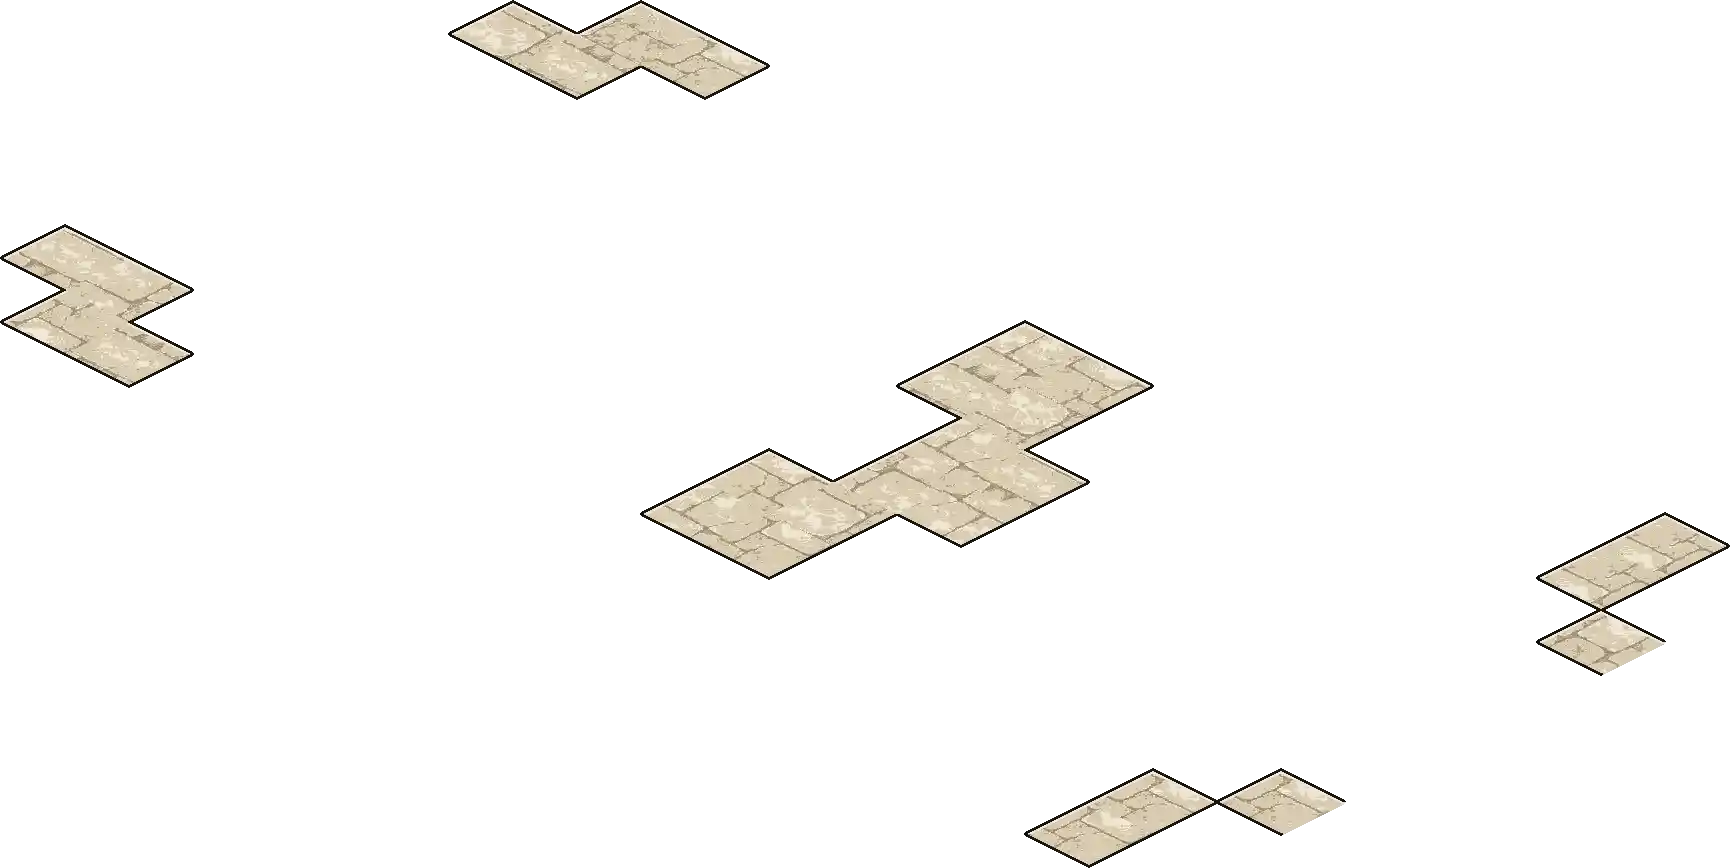
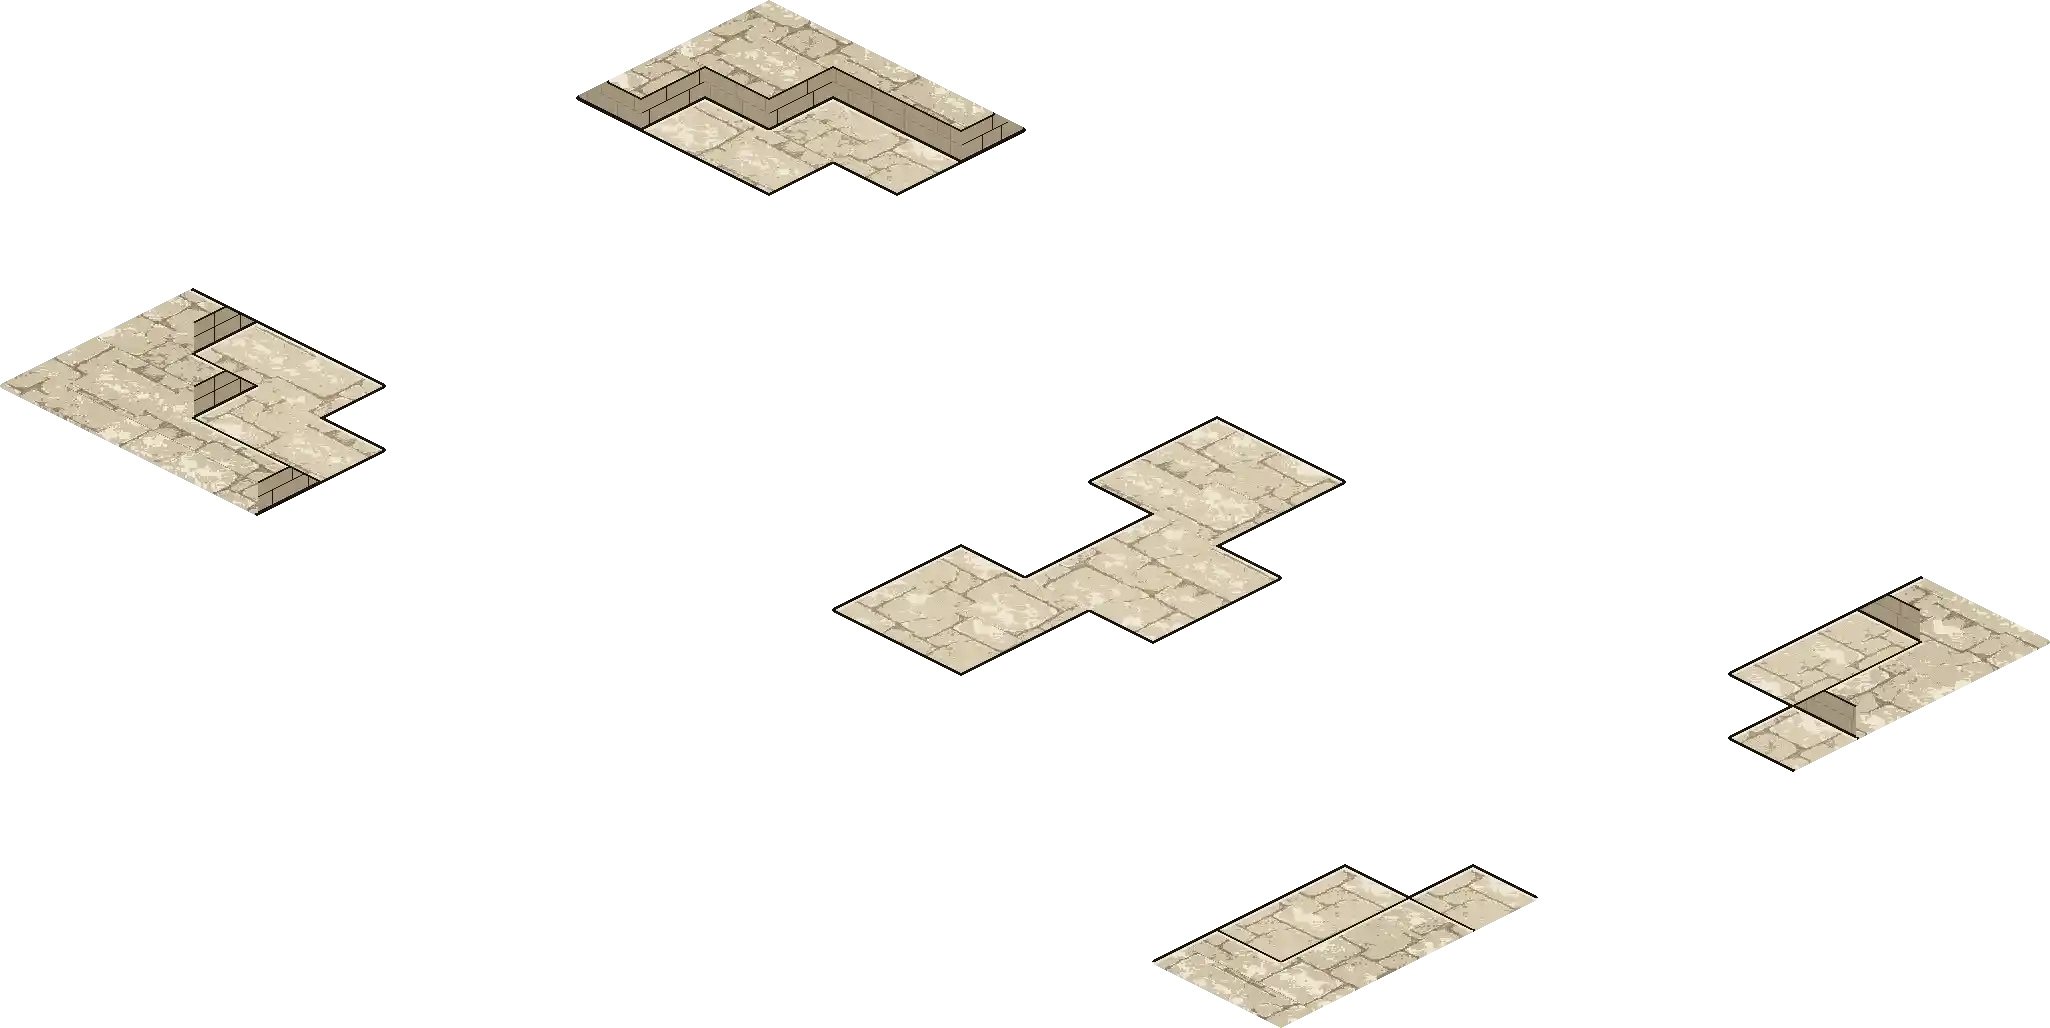
Paint the Quarry Gate's X corners as raised cut rock on the limestone page

diff --git a/scripts/art/quarry-modular-ground.ts b/scripts/art/quarry-modular-ground.ts
@@ -13,7 +13,10 @@
  * Three materials across the four registered regions, which is what the gate's
  * geometry is actually describing:
  *
- * - `limestone` region → the §3 limestone paving of the gatehouse terrace.
+ * - `limestone` region → the §3 limestone paving of the gatehouse terrace,
+ *   and the cut quarry rock (`X`) in the corners: the Cutting's `block` key,
+ *   stood `ROCK_RISE` above the terrace on a two-course block face so it
+ *   reads as the rock it is, never as open floor.
  * - `road` region → §3 packed earth, with the haul tracks running down its two
  *   rows in the cart-rut tone.
  * - `earth-west` / `earth-east` → §3 quarry spoil, the loose ground either side
@@ -28,12 +31,17 @@
  */
 import { mkdirSync, writeFileSync } from 'node:fs';
 import { QUARRY_GATE } from '../../src/content/maps/combat';
-import { newImage, setPixel } from './lib/image';
+import { newImage, parseHex, setPixel } from './lib/image';
 import type { Image } from './lib/image';
 import { tileNoise } from '../../src/render/painters/shapes';
 import { alphaBounds, crop } from './lib/trim';
 import { encodeWebp } from './lib/webp';
-import { heapFits, loadQuarryMaterial, QUARRY_GROUND_QUALITY } from './quarry-village-material';
+import {
+  heapFits,
+  loadQuarryMaterial,
+  QUARRY_GROUND_QUALITY,
+  QUARRY_GROUND_TONES,
+} from './quarry-village-material';
 import type { QuarryMaterial, QuarryTone, Rgb } from './quarry-village-material';
 
 const TILE_DIAGONAL = Math.hypot(64, 32);
@@ -44,11 +52,35 @@ export const QUARRY_GATE_PAGE = { x: -128, y: -192, width: 2304, height: 1280 } 
 export const QUARRY_GATE_REGION_NAMES = ['earth-west', 'earth-east', 'road', 'limestone'] as const;
 export type GateRegionName = (typeof QUARRY_GATE_REGION_NAMES)[number];
 
+/**
+ * How far the cut rock (`X`) stands above the terrace, in world pixels: two
+ * courses of `COURSE`, one per tier of its elevation, so it reads a full step
+ * above the tier-1 `^` shoulders in front of it. The forest's tier-1 shelf
+ * stands `SHELF_RISE` (16); this is the same face at twice the height.
+ */
+export const ROCK_RISE = 32;
+const ROCK_COURSE = ROCK_RISE / 2;
+const ROCK_BLOCK = 32;
+const LIP_INK = 2;
+
+/**
+ * Rock, for the face test. Off the grid counts as rock: the corner masses run
+ * on into the exterior surround, which owns the terrace's outer drop, so a
+ * face stands only where the rock meets the playable board.
+ */
+const isRock = (x: number, y: number): boolean => {
+  const key = QUARRY_GATE.rows[y]?.[x];
+  return key === undefined || key === 'X';
+};
+
 const regionAt = (x: number, y: number): GateRegionName | null => {
   const key = QUARRY_GATE.rows[y]?.[x];
   if (!key) return null;
   if (key === '=') return 'road';
-  if (key === 'o' || key === '^') return 'limestone';
+  // The cut rock rides the limestone page: it is the Cutting's `block` key, so
+  // it belongs with the stone, and keeping it off the spoil pages keeps them
+  // to the terrace they describe.
+  if (key === 'o' || key === '^' || key === 'X') return 'limestone';
   return x < 10 ? 'earth-west' : 'earth-east';
 };
 
@@ -57,6 +89,8 @@ const materialOf = (key: string | undefined): QuarryTone | null => {
   if (!key) return null;
   if (key === '=') return 'earth';
   if (key === 'o' || key === '^') return 'limestone';
+  // Cut quarry rock: the Cutting's `^`/`A` block key, never spoil floor.
+  if (key === 'X') return 'block';
   // Walls and cover stand on the terrace; their footprint is still ground, and
   // leaving it unpainted would change the registered page bounds.
   return 'spoil';
@@ -77,6 +111,54 @@ export const plainSpoil = (x: number, y: number): boolean => {
   const key = QUARRY_GATE.rows[y]?.[x];
   return materialOf(key) === 'spoil' && plain(key);
 };
+
+/** Logical cell coordinates of a world pixel. */
+const logical = (wx: number, wy: number): { x: number; y: number } => ({
+  x: ((wx - 768) / 64 + wy / 32) / 2,
+  y: (wy / 32 - (wx - 768) / 64) / 2,
+});
+const rockAt = (wx: number, wy: number): boolean => {
+  const { x, y } = logical(wx, wy);
+  return isRock(Math.floor(x), Math.floor(y));
+};
+
+/**
+ * One pixel of the cut rock, painted the way `forest-raised-shelf.ts` stands
+ * its shelf: the top is the footprint lifted by `ROCK_RISE`, and wherever the
+ * ground under a pixel's top would already be off the rock, that pixel is the
+ * block face instead, so the face stands straight up from the rock's
+ * down-screen (+x/+y) edges inside the rules' own cells. The face is the
+ * `block` row's shadow, never its pale tones: joint-tone joints on the
+ * left-facing wall, ink joints on the right-facing one, turned further from
+ * the light. It is one step lighter than the shelf's right wall (whose field is
+ * the joint tone) because the rock shares the limestone page, and the page's
+ * darkest window has to stay inside the §3 span of its brightest paving.
+ */
+function rockPixel(material: QuarryMaterial, wx: number, wy: number, rim: boolean): Rgb {
+  let drop = 1;
+  while (drop <= ROCK_RISE && rockAt(wx, wy + drop)) drop++;
+  if (drop > ROCK_RISE) {
+    // The top, sampled where it stands, so its incident rides up with the lift.
+    if (rim) return material.rimOf('block');
+    const top = logical(wx, wy + ROCK_RISE);
+    return material.colour('block', top.x, top.y);
+  }
+  const block = QUARRY_GROUND_TONES.block;
+  const foot = logical(wx, wy + drop - 1);
+  const exit = logical(wx, wy + drop);
+  const right =
+    Math.floor(exit.x) > Math.floor(foot.x) && Math.floor(exit.y) === Math.floor(foot.y);
+  const height = drop - 1;
+  if (drop > ROCK_RISE - LIP_INK || height < LIP_INK) return material.ink;
+  const course = Math.floor(height / ROCK_COURSE);
+  // Blocks break joint course to course, and each runs its own length.
+  const run = Math.floor(wx) + course * (ROCK_BLOCK / 2);
+  const index = Math.floor(run / ROCK_BLOCK);
+  const jointAt = index * ROCK_BLOCK + 4 + Math.floor(tileNoise(index, course, 7) * (ROCK_BLOCK - 8));
+  const joint = height % ROCK_COURSE === 0 || run === jointAt;
+  if (right) return joint ? material.ink : parseHex(block.shadow);
+  return parseHex(joint ? block.joint : block.shadow);
+}
 
 export function packGateGround(material: QuarryMaterial): Map<GateRegionName, Image> {
   const images = new Map(
@@ -144,9 +226,11 @@ export function packGateGround(material: QuarryMaterial): Map<GateRegionName, Im
       const rgb =
         edge < INK_HALF
           ? material.ink
-          : lit && edge < INK_HALF + RIM_WIDTH
-            ? material.rimOf(tone)
-            : (heap ?? material.colour(tone, gx, gy));
+          : key === 'X'
+            ? rockPixel(material, wx, wy, lit && edge < INK_HALF + RIM_WIDTH)
+            : lit && edge < INK_HALF + RIM_WIDTH
+              ? material.rimOf(tone)
+              : (heap ?? material.colour(tone, gx, gy));
       setPixel(images.get(name)!, px, py, [rgb[0], rgb[1], rgb[2], 255]);
     }
   return images;

diff --git a/src/content/scenes/quarryGate.ts b/src/content/scenes/quarryGate.ts
@@ -4,10 +4,10 @@ import { QUARRY_WEST_FRAMES } from './quarryWestFrames';
 
 const root = 'art/maps/quarry-gate-scene/';
 export const QUARRY_GATE_GROUND_REGIONS = [
-  { name: 'earth-west', x: -1, y: -2, width: 1410, height: 708 },
-  { name: 'earth-east', x: 639, y: 318, width: 1410, height: 708 },
+  { name: 'earth-west', x: 191, y: 94, width: 1218, height: 612 },
+  { name: 'earth-east', x: 639, y: 318, width: 1282, height: 644 },
   { name: 'road', x: 319, y: 158, width: 1410, height: 708 },
-  { name: 'limestone', x: 191, y: 94, width: 1730, height: 868 },
+  { name: 'limestone', x: -1, y: -2, width: 2050, height: 1028 },
 ] as const;
 export const QUARRY_GATE_COVER_CELLS: readonly Vec2[] = [
   { x: 13, y: 2 },

diff --git a/scripts/art/quarry-route-ground.test.ts b/scripts/art/quarry-route-ground.test.ts
@@ -382,10 +382,10 @@ it('ships the plates the packers build, inside the registered page', async () =>
  * budget, so its pins live here rather than as a `bytes` field on each region.
  */
 const QUARRY_GATE_GROUND_BYTES = [
-  { name: 'earth-west', bytes: 55_350 },
-  { name: 'earth-east', bytes: 51_038 },
+  { name: 'earth-west', bytes: 46_294 },
+  { name: 'earth-east', bytes: 46_054 },
   { name: 'road', bytes: 18_076 },
-  { name: 'limestone', bytes: 20_936 },
+  { name: 'limestone', bytes: 33_794 },
 ] as const;
 
 it('pins a size for every gate page', () => {
